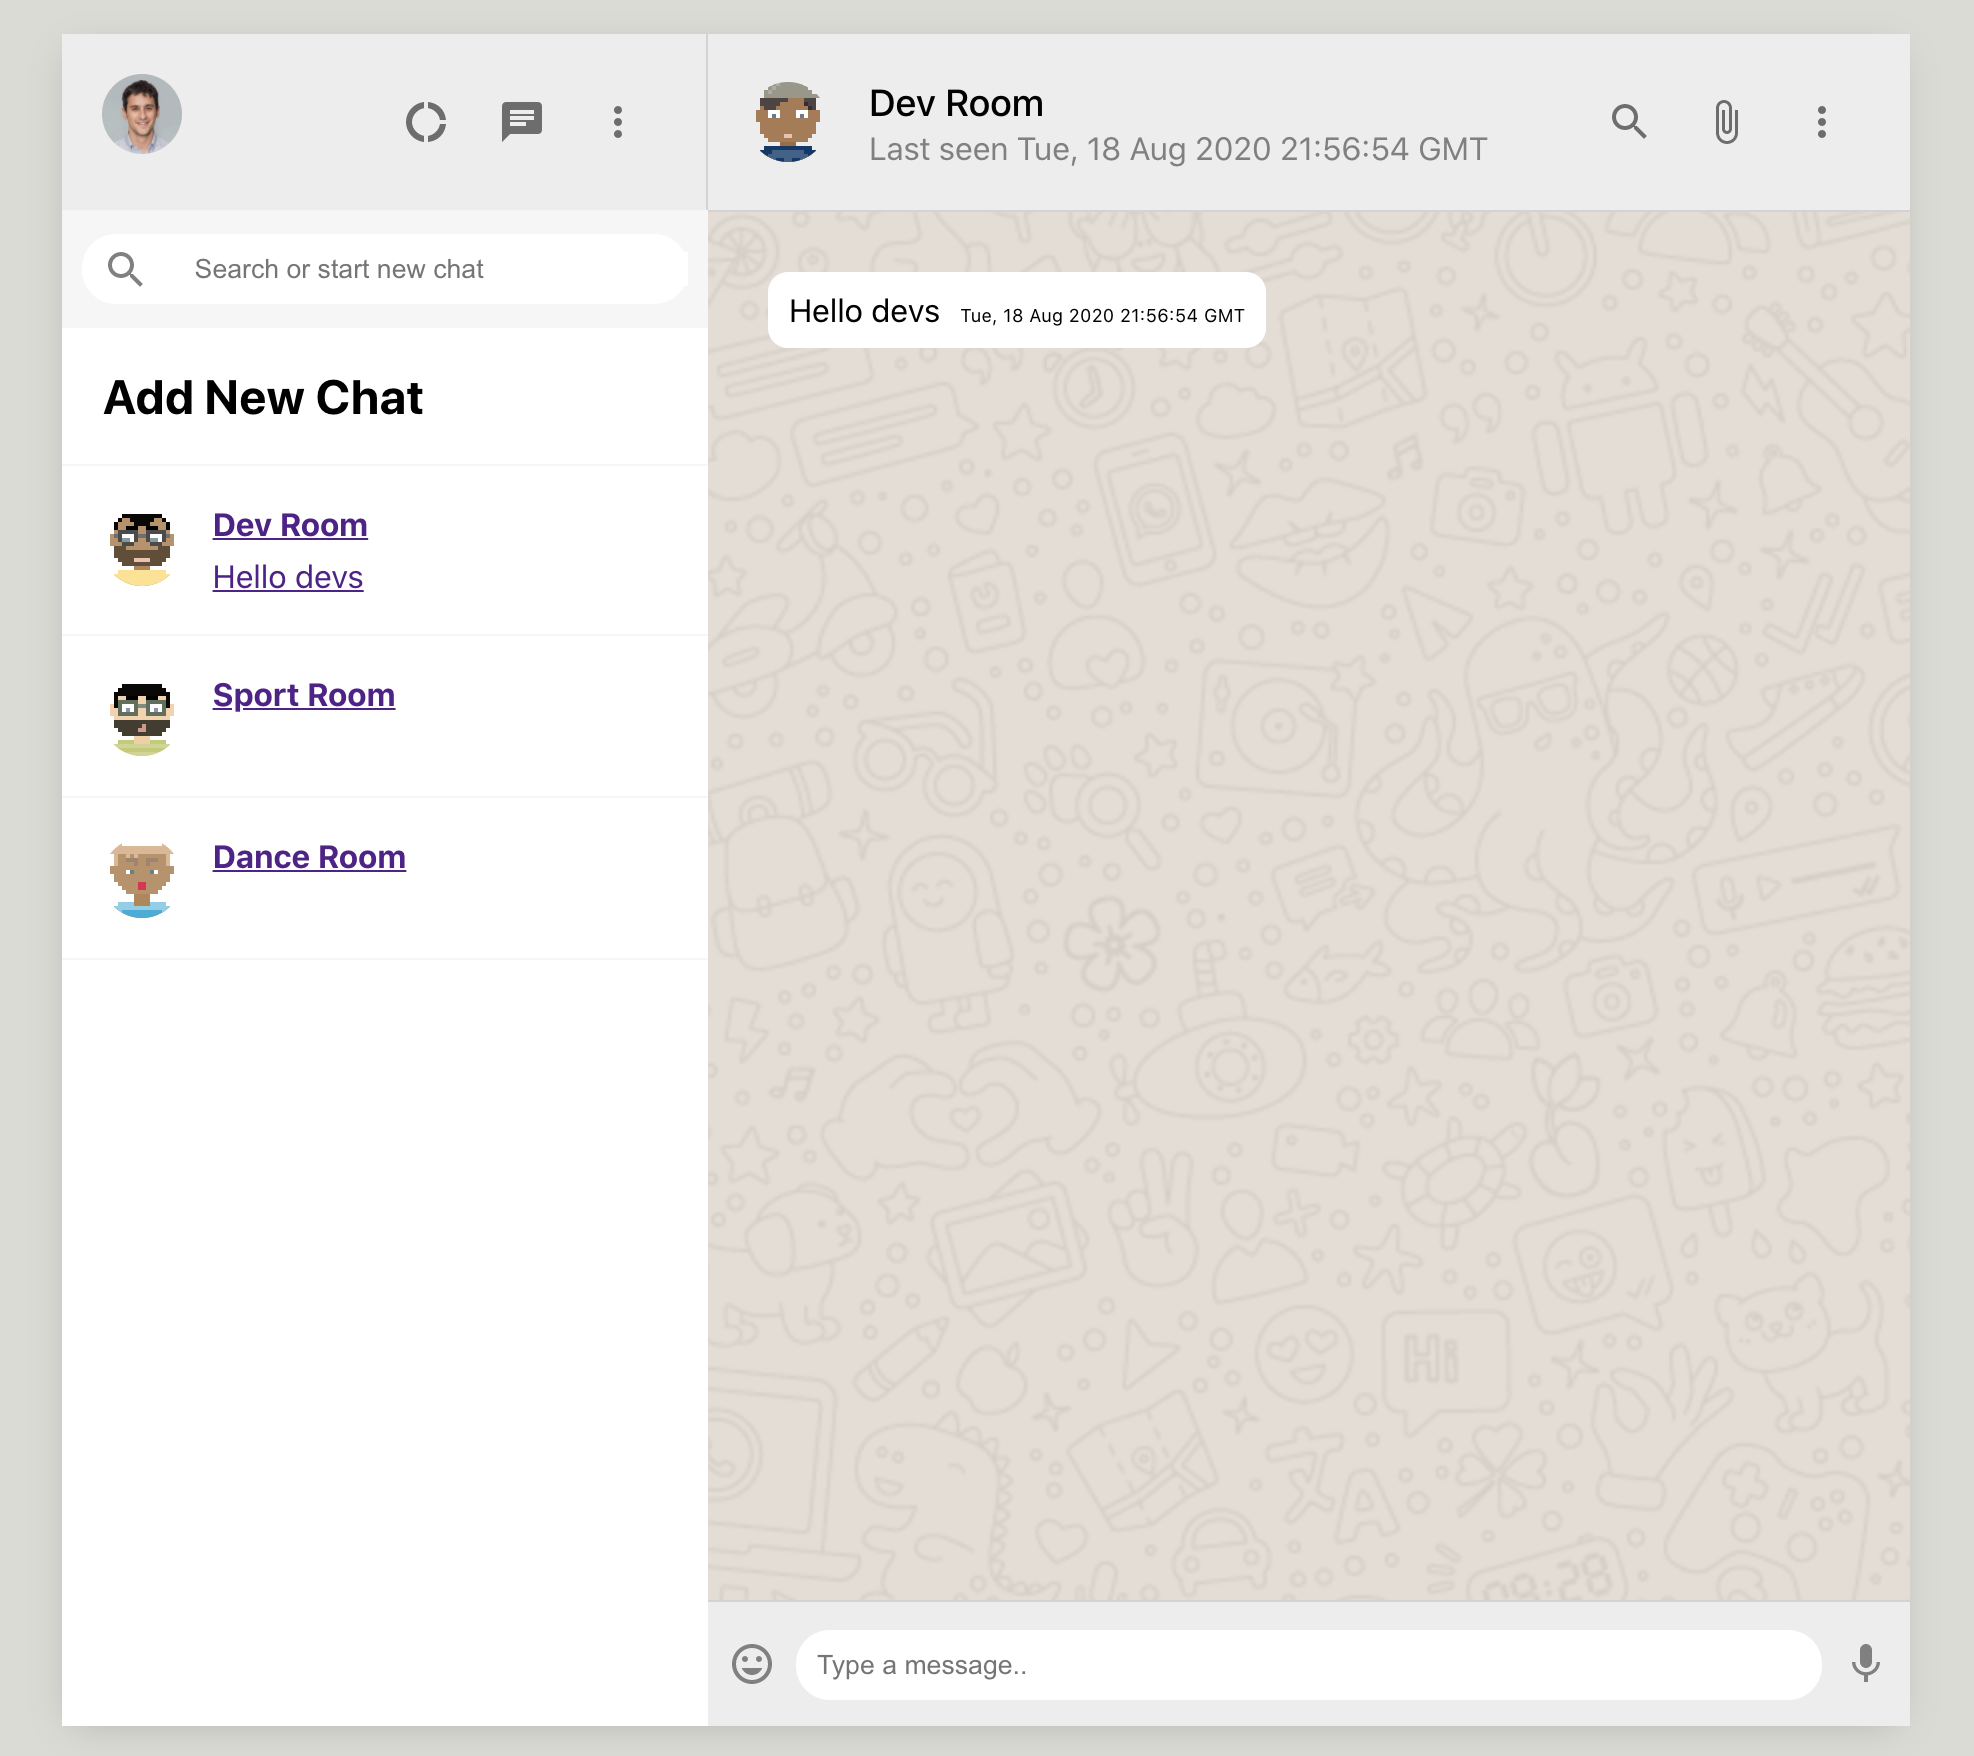
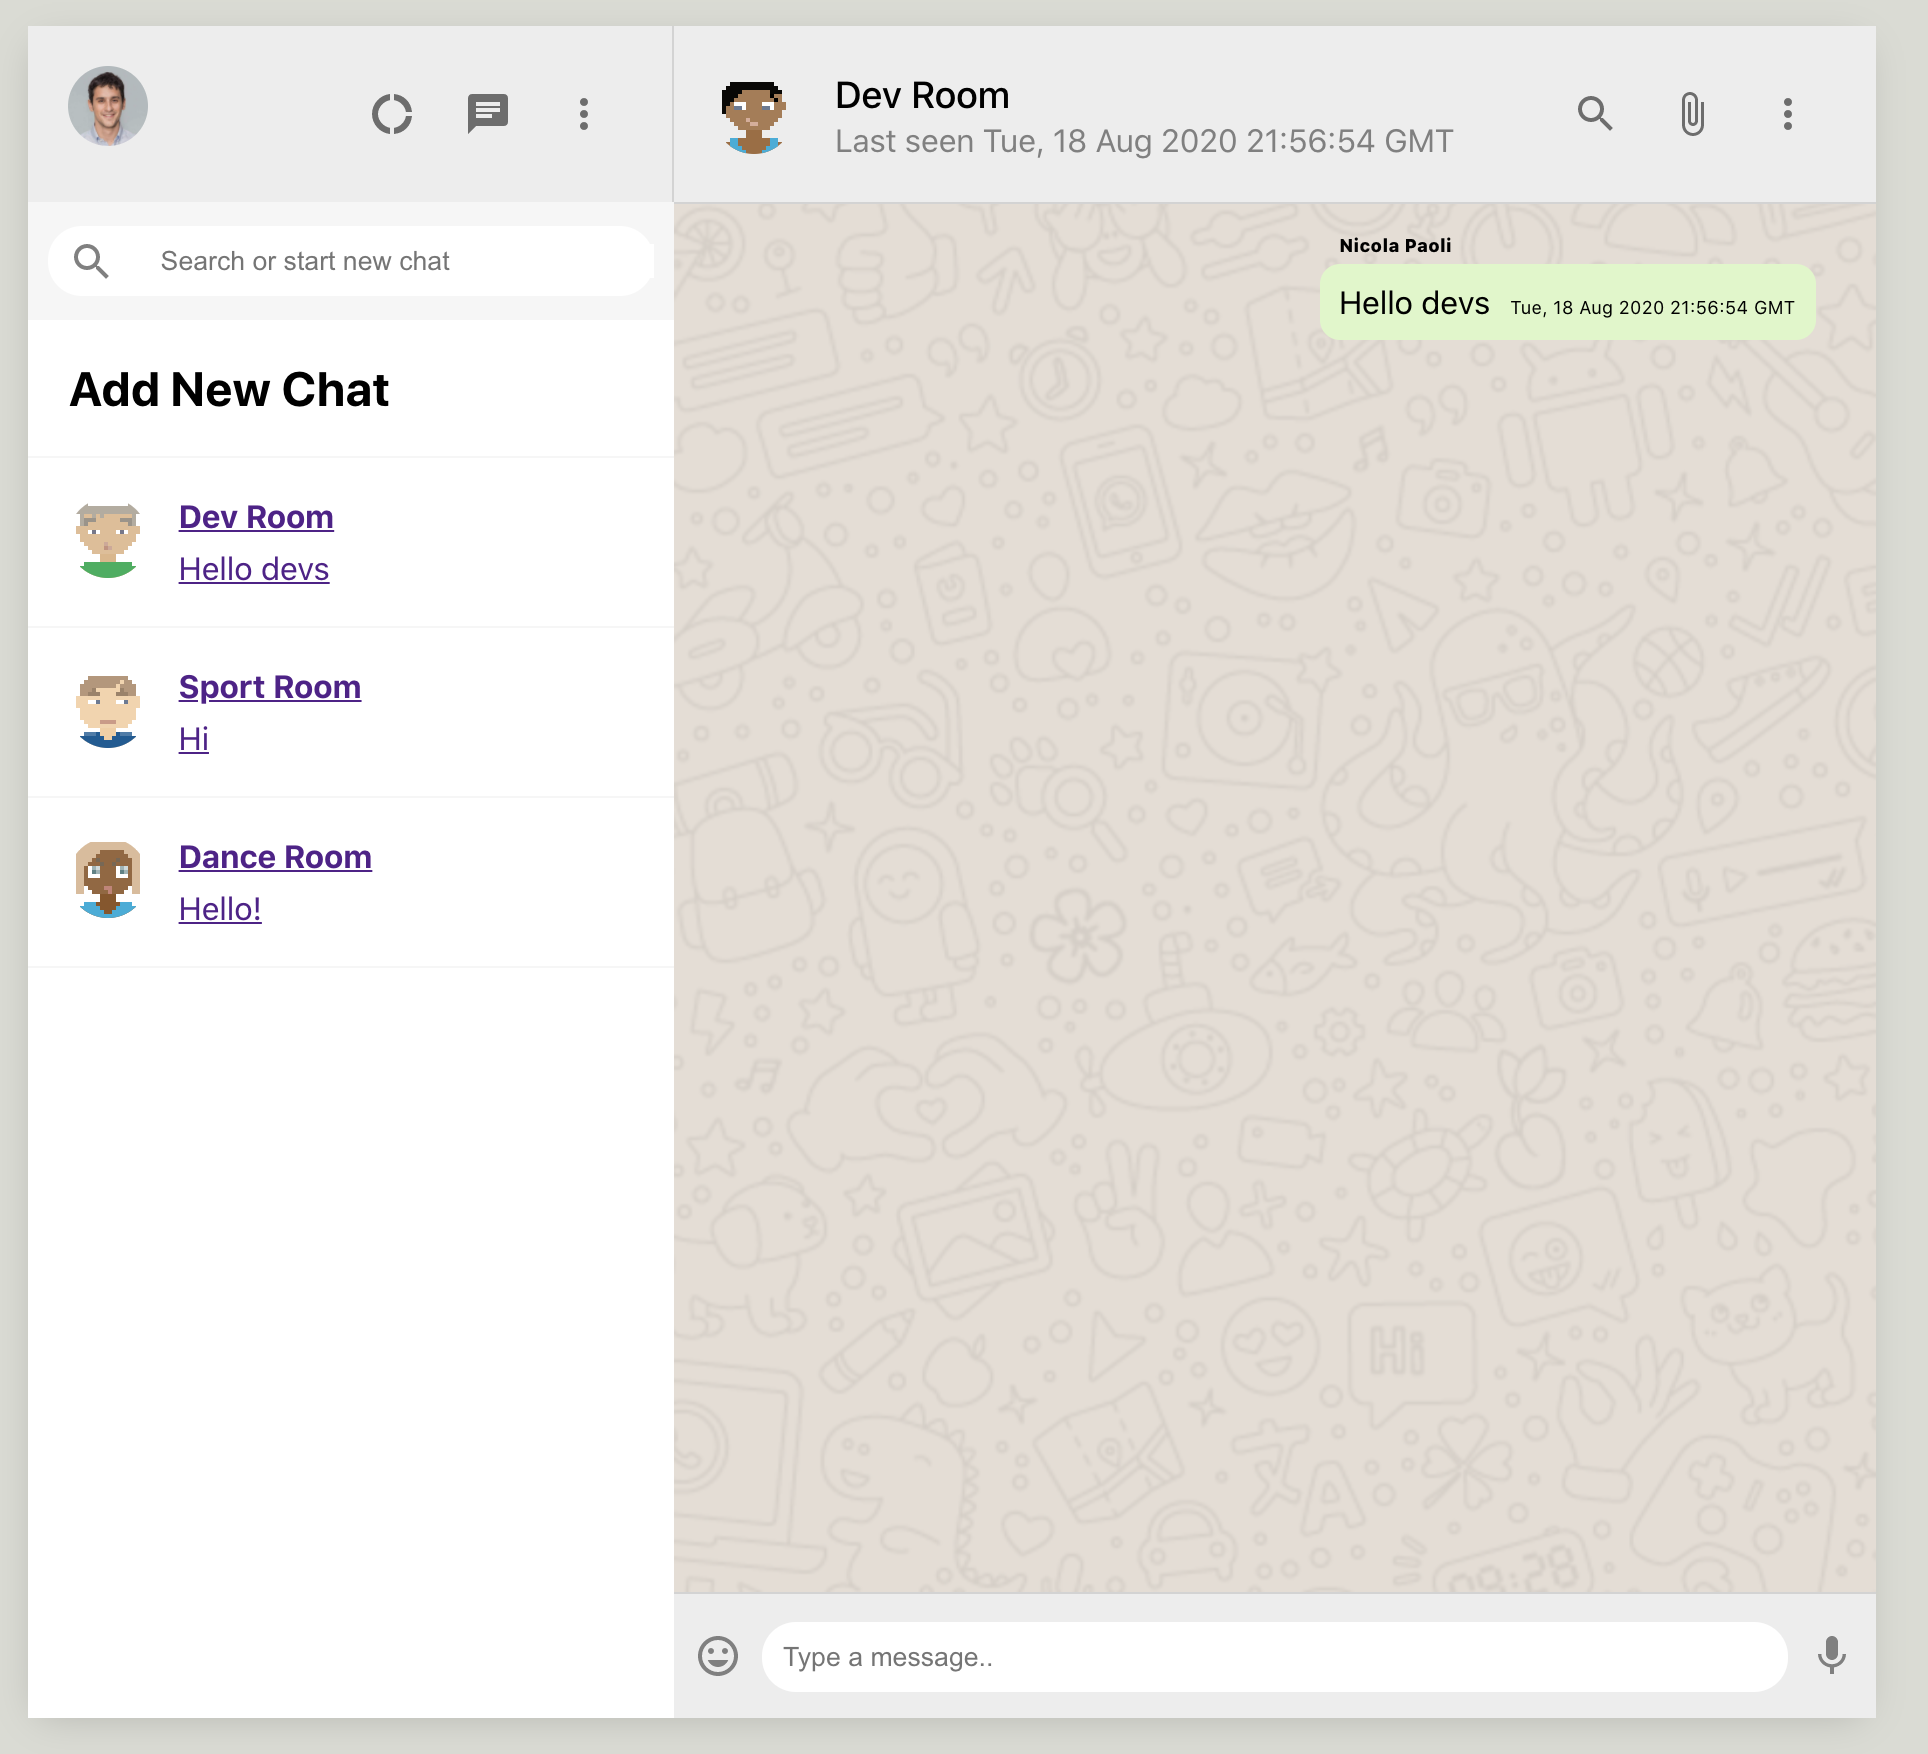
Fix names on chat messages

Changed region(s): [[0.0, 0.0, 0.9959, 0.9852], [0.0934, 0.1231, 0.249, 0.1539], [0.8091, 0.0616, 0.8402, 0.0924]]

diff --git a/src/Chat.js b/src/Chat.js
@@ -40,7 +40,7 @@ function Chat() {
             .collection('messages')
             .add({
                 message: input,
-                name: user.displayName,
+                user: user.displayName,
                 timestamp: firebase.firestore.FieldValue.serverTimestamp()
             })
         setInput("")
@@ -73,9 +73,9 @@ function Chat() {
             </div>
             <div className="chat__body">
                 {messages.map(message => (
-                    <p key={message.id} id={message.id} className={`chat__message ${message.name === user.displayName && "chat__receiver"}`}>
+                    <p key={message.id} id={message.id} className={`chat__message ${message.user === user.displayName && "chat__receiver"}`}>
                     <span className="chat__name">
-                        {message.name}
+                        {message.user}
                     </span>
                         {message.message}
                         <span className="chat__timestamp">

diff --git a/src/firebase.js b/src/firebase.js
@@ -11,10 +11,6 @@ const firebaseConfig = {
     measurementId: process.env.REACT_APP_FIREBASE_MEASUREMENT_ID,
 };
 
-console.log('LOADING FIREBASE ENVVAR')
-console.log(process.env.REACT_APP_FIREBASE_APIKEY)
-console.log(process.env.REACT_APP_FIREBASE_PROJECT_ID)
-
 const firebaseApp = firebase.initializeApp(firebaseConfig);
 
 const db = firebaseApp.firestore();
